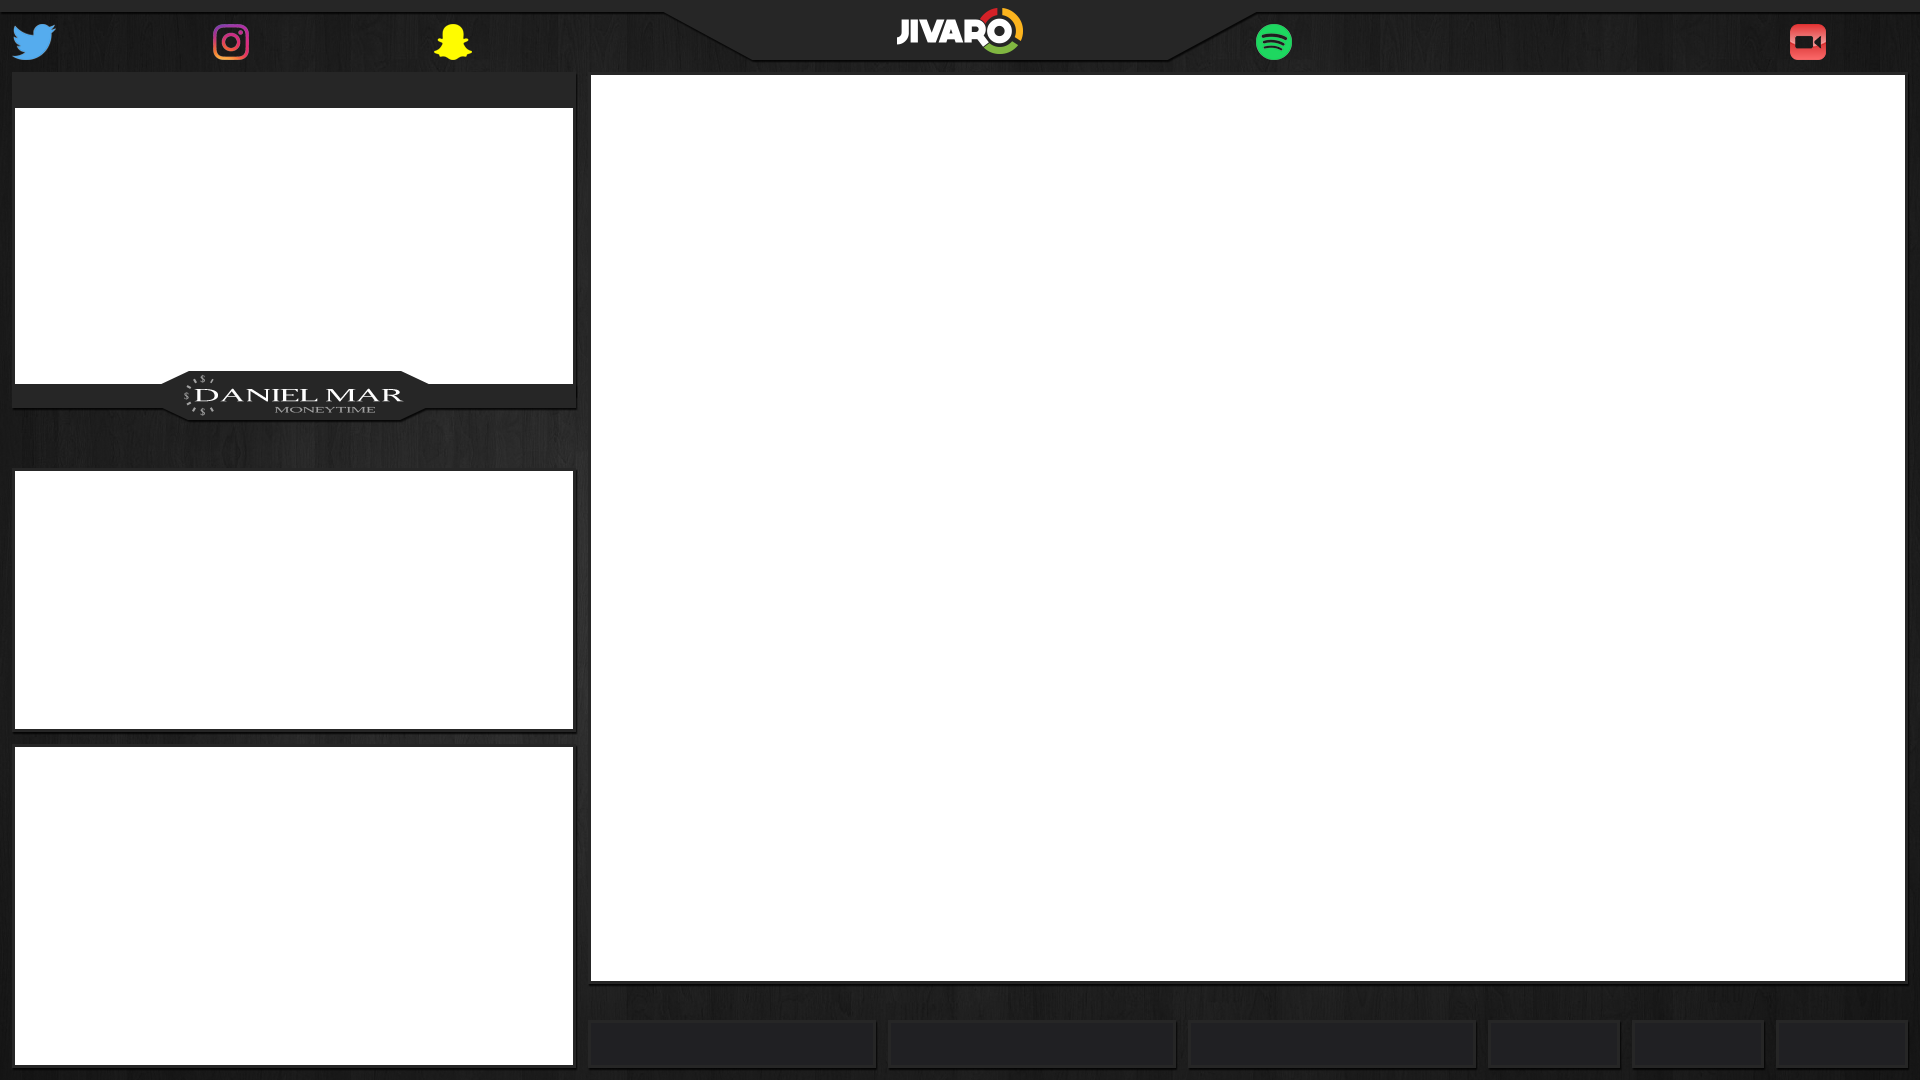
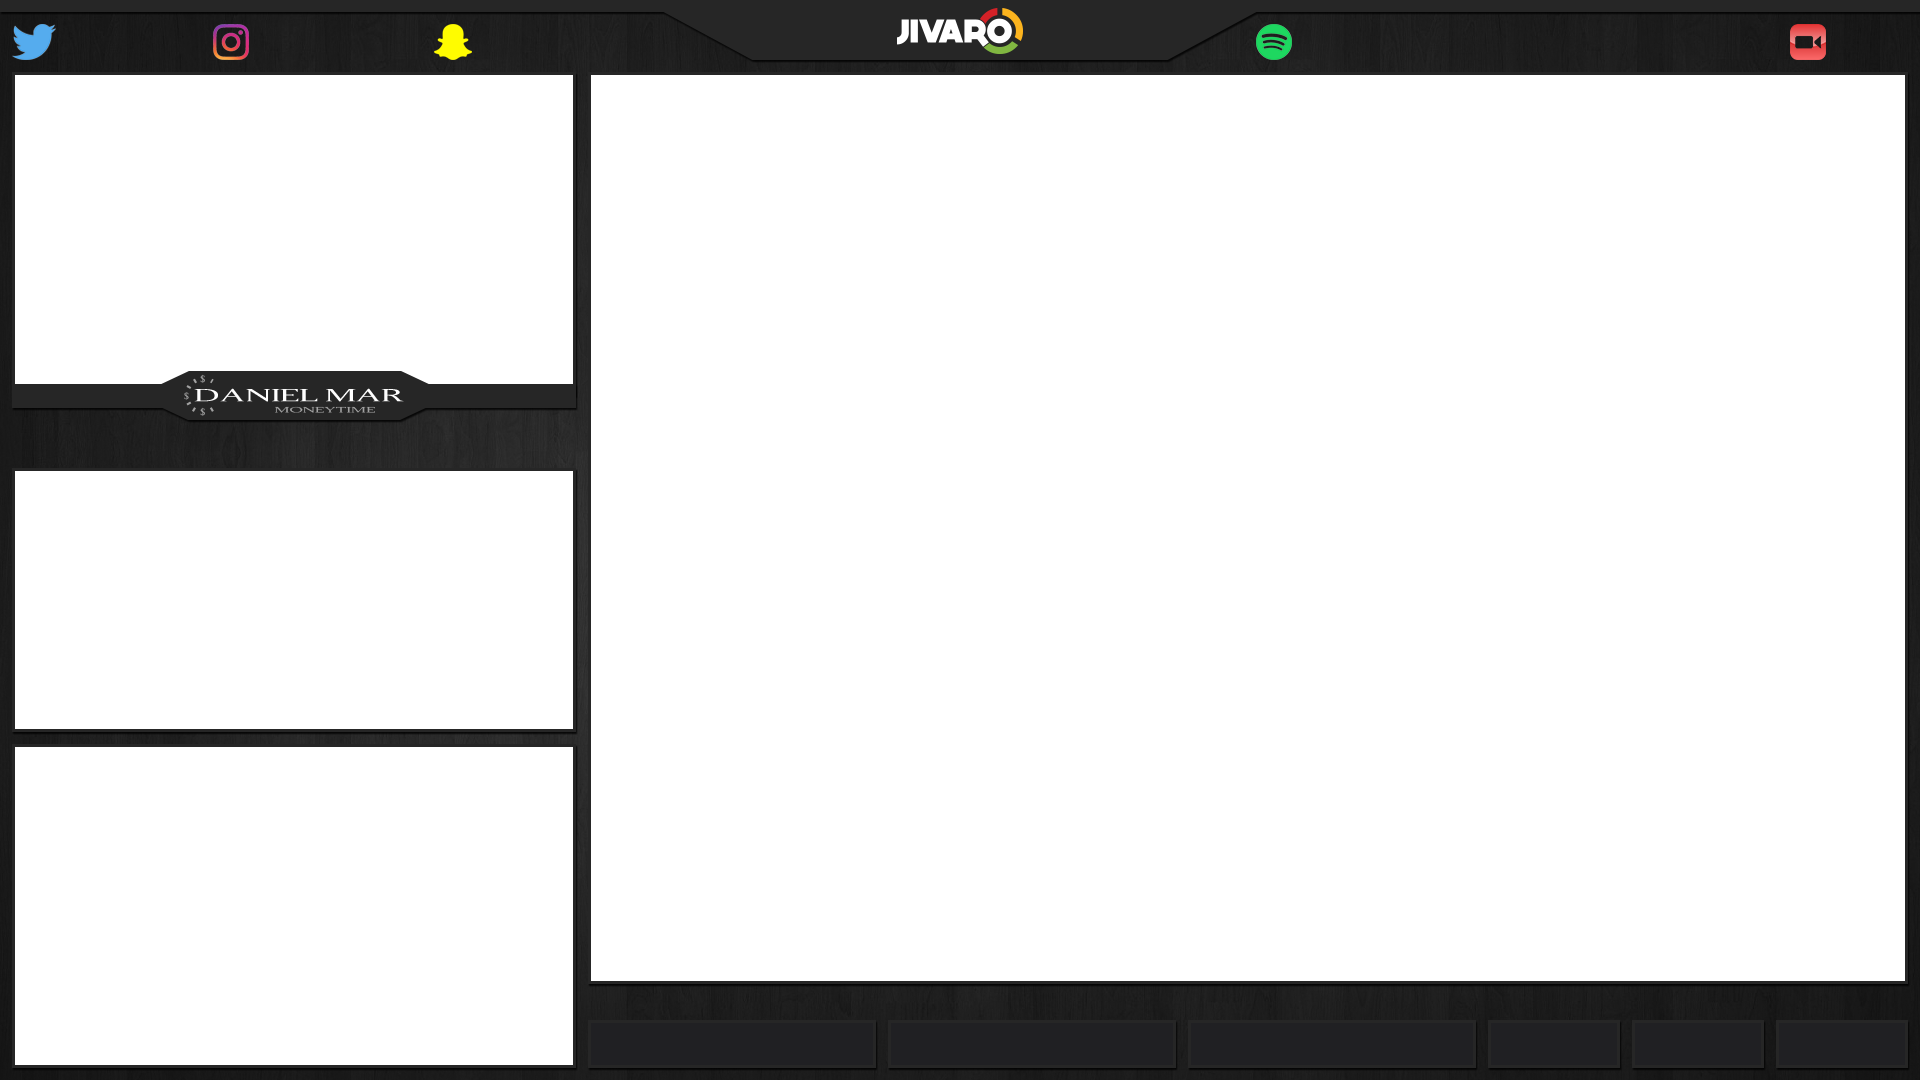
removed sub countdown

Changed region(s): [[0.0, 0.0611, 0.3125, 0.1222]]

diff --git a/app/index.html b/app/index.html
@@ -40,10 +40,11 @@
             <p class="songname">{{ vm.data['Snip_Track.txt'] }}</p>
         </div>
 
-<!-- Sub Countdown -->
+ <!-- Sub Countdown
             <div class="sub-countdown">
                 <span class="text-span-sub-countdown">{{ vm.data['total_subscriber_count.txt'] }}</span>
             </div>
+-->
 
 <!-- Active Tournaments -->
         <div class="active-tournaments">
